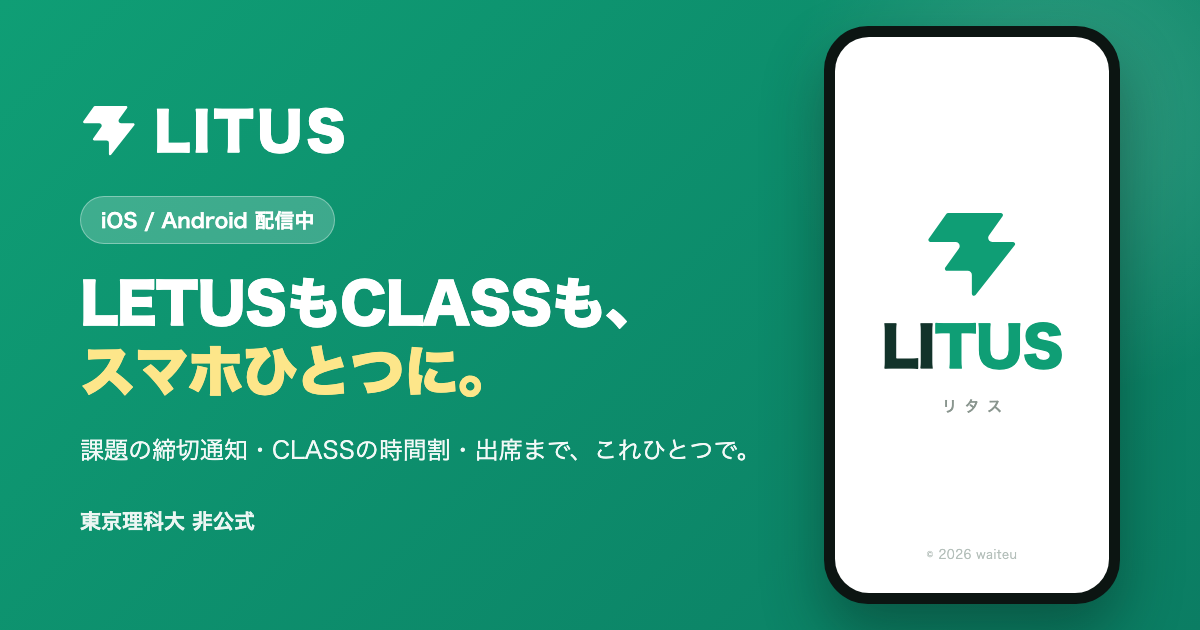
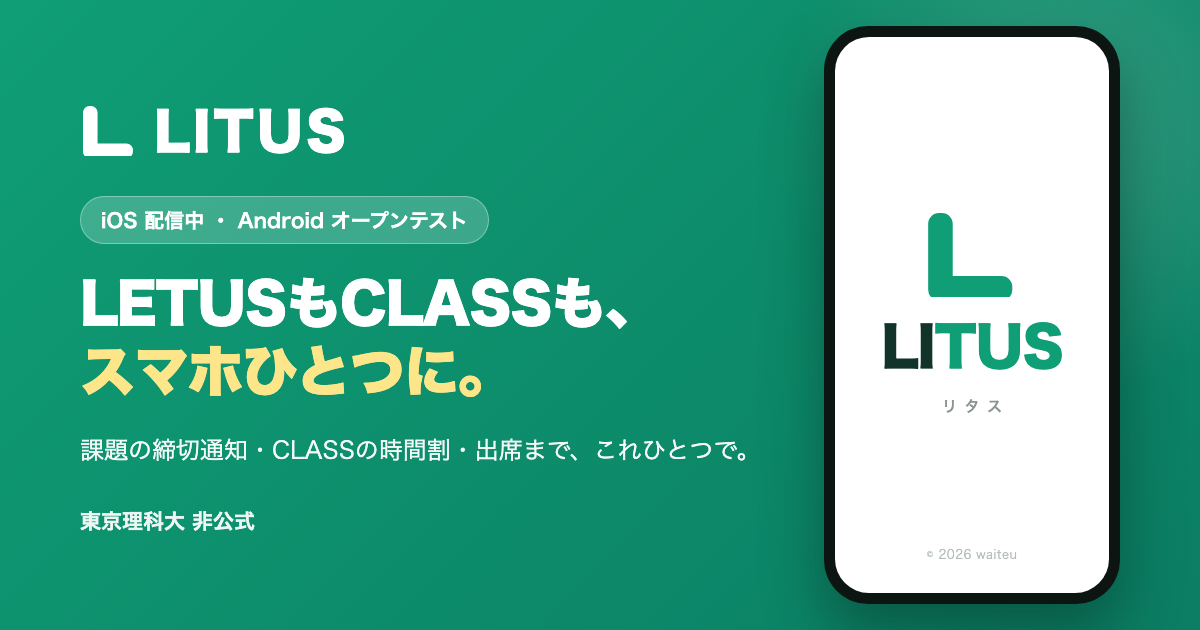
アイコンを Vite ロゴの流用から独自マークへ差し替える
旧マークは Vite のロゴ（vite.dev/logo.svg）のパスを平行移動して着色したもので、
由来は npm create vite の雛形が同梱する src/assets/vite.svg。2026-09-10 に外部から
指摘され実測で確認した。

新マークは角丸矩形2枚の和で作る「L」。定義と出所は waiteu-git/litus の
docs/brand-mark.md が正典。

差し替え: favicon-litus.svg / favicon-litus-32,48.png / apple-touch-icon-litus.png /
app-og.png（バッジ文言も「iOS 配信中 ・ Android オープンテスト」へ）/
index.html と app-privacy.html のインライン SVG。

Changed region(s): [[0.1233, 0.3016, 0.4317, 0.3921], [0.7708, 0.3317, 0.8633, 0.4825], [0.0617, 0.1508, 0.1233, 0.2714]]

diff --git a/landing/og-app.html b/landing/og-app.html
@@ -40,10 +40,10 @@
   <div class="og">
     <div class="copy">
       <div class="brandrow">
-        <span class="mark"><svg width="52" height="50" viewBox="0 0 48 46" fill="none"><path fill="#fff" d="M25.946 44.938c-.664.845-2.021.375-2.021-.698V33.937a2.26 2.26 0 0 0-2.262-2.262H10.287c-.92 0-1.456-1.04-.92-1.788l7.48-10.471c1.07-1.497 0-3.578-1.842-3.578H1.237c-.92 0-1.456-1.04-.92-1.788L10.013.474c.214-.297.556-.474.92-.474h28.894c.92 0 1.456 1.04.92 1.788l-7.48 10.471c-1.07 1.498 0 3.579 1.842 3.579h11.377c.943 0 1.473 1.088.89 1.83L25.947 44.94z"/></svg></span>
+        <span class="mark"><svg width="52" height="50" viewBox="0 0 48 46" fill="none"><path fill="#fff" d="M5.914,0 H7.526 A5.914,5.914 0 0 1 13.44,5.914 V34.56 H40.166 A5.914,5.914 0 0 1 46.08,40.474 V42.086 A5.914,5.914 0 0 1 40.166,48 H5.914 A5.914,5.914 0 0 1 0,42.086 V5.914 A5.914,5.914 0 0 1 5.914,0 Z"/></svg></span>
         <span class="wordmark">LITUS</span>
       </div>
-      <div class="badge">iOS / Android 配信中</div>
+      <div class="badge">iOS 配信中 ・ Android オープンテスト</div>
       <div class="title">LETUSもCLASSも、<br><em>スマホひとつに。</em></div>
       <div class="sub">課題の締切通知・CLASSの時間割・出席まで、これひとつで。</div>
       <div class="foot">東京理科大 非公式</div>
@@ -51,7 +51,7 @@
     <div class="phone">
       <div class="screen">
         <div class="boot-lockup">
-          <span class="boot-mark"><svg width="88" height="84" viewBox="0 0 48 46" fill="none"><path fill="#0f9e75" d="M25.946 44.938c-.664.845-2.021.375-2.021-.698V33.937a2.26 2.26 0 0 0-2.262-2.262H10.287c-.92 0-1.456-1.04-.92-1.788l7.48-10.471c1.07-1.497 0-3.578-1.842-3.578H1.237c-.92 0-1.456-1.04-.92-1.788L10.013.474c.214-.297.556-.474.92-.474h28.894c.92 0 1.456 1.04.92 1.788l-7.48 10.471c-1.07 1.498 0 3.579 1.842 3.579h11.377c.943 0 1.473 1.088.89 1.83L25.947 44.94z"/></svg></span>
+          <span class="boot-mark"><svg width="88" height="84" viewBox="0 0 48 46" fill="none"><path fill="#0f9e75" d="M5.914,0 H7.526 A5.914,5.914 0 0 1 13.44,5.914 V34.56 H40.166 A5.914,5.914 0 0 1 46.08,40.474 V42.086 A5.914,5.914 0 0 1 40.166,48 H5.914 A5.914,5.914 0 0 1 0,42.086 V5.914 A5.914,5.914 0 0 1 5.914,0 Z"/></svg></span>
           <div class="boot-word"><span class="li">LI</span><span class="tus">TUS</span></div>
           <div class="boot-tag">リタス</div>
         </div>

diff --git a/landing/updates.html b/landing/updates.html
@@ -31,7 +31,7 @@
 <div>
   <header style="position:sticky;top:0;z-index:50;background:rgba(255,255,255,0.86);backdrop-filter:blur(16px);border-bottom:1px solid #e8f0ec;">
     <div style="max-width:780px;margin:0 auto;padding:13px 24px;display:flex;align-items:center;justify-content:space-between;">
-      <a href="https://litus.waiteu.dev/" style="display:flex;align-items:center;gap:9px;text-decoration:none;"><span style="display:inline-flex;align-items:center;justify-content:center;width:26px;height:26px;"><svg width="23" height="22" viewBox="0 0 48 46" fill="none"><path fill="#0f9e75" d="M25.946 44.938c-.664.845-2.021.375-2.021-.698V33.937a2.26 2.26 0 0 0-2.262-2.262H10.287c-.92 0-1.456-1.04-.92-1.788l7.48-10.471c1.07-1.497 0-3.578-1.842-3.578H1.237c-.92 0-1.456-1.04-.92-1.788L10.013.474c.214-.297.556-.474.92-.474h28.894c.92 0 1.456 1.04.92 1.788l-7.48 10.471c-1.07 1.498 0 3.579 1.842 3.579h11.377c.943 0 1.473 1.088.89 1.83L25.947 44.94z"/></svg></span><span style="font-size:14.5px;font-weight:900;color:#0b3b2e;">リタス</span></a>
+      <a href="https://litus.waiteu.dev/" style="display:flex;align-items:center;gap:9px;text-decoration:none;"><span style="display:inline-flex;align-items:center;justify-content:center;width:26px;height:26px;"><svg width="23" height="22" viewBox="0 0 48 46" fill="none"><path fill="#0f9e75" d="M5.914,0 H7.526 A5.914,5.914 0 0 1 13.44,5.914 V34.56 H40.166 A5.914,5.914 0 0 1 46.08,40.474 V42.086 A5.914,5.914 0 0 1 40.166,48 H5.914 A5.914,5.914 0 0 1 0,42.086 V5.914 A5.914,5.914 0 0 1 5.914,0 Z"/></svg></span><span style="font-size:14.5px;font-weight:900;color:#0b3b2e;">リタス</span></a>
       <a href="https://litus.waiteu.dev/" style="font-size:13px;color:#0b7d63;font-weight:700;text-decoration:none;">← リタスのページへ</a>
     </div>
   </header>
